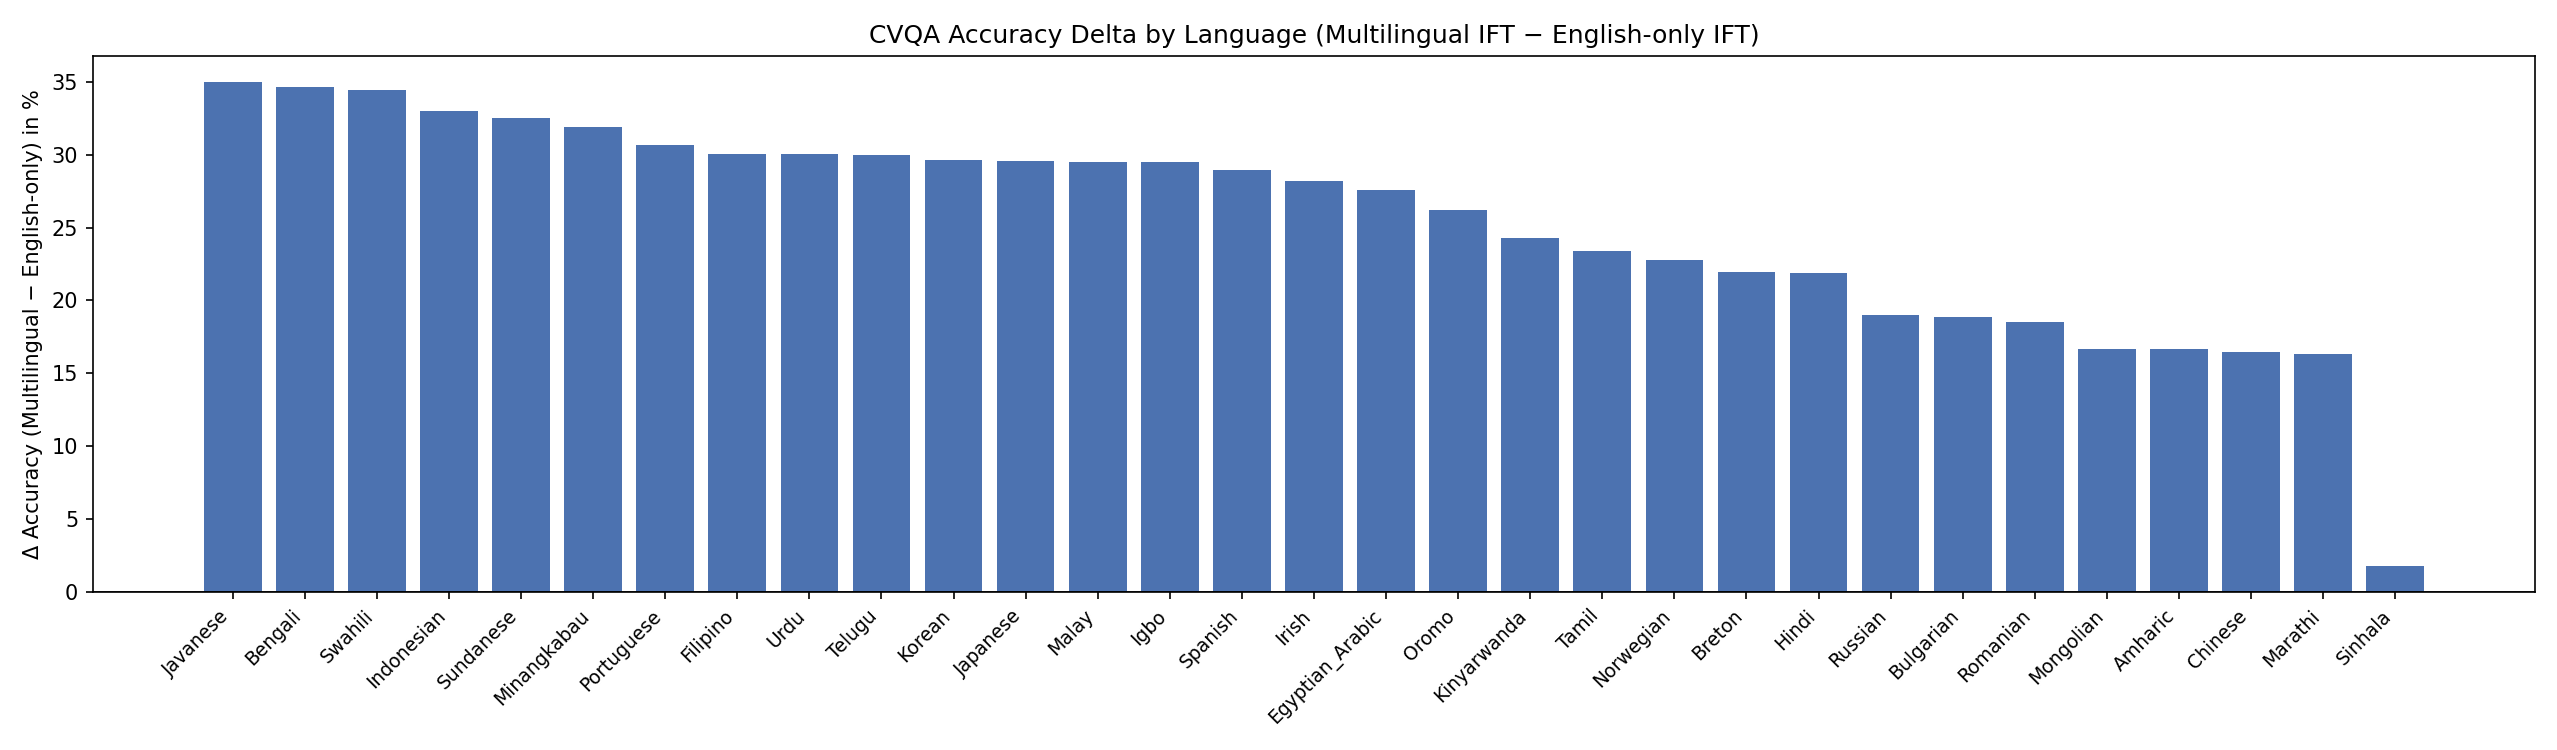
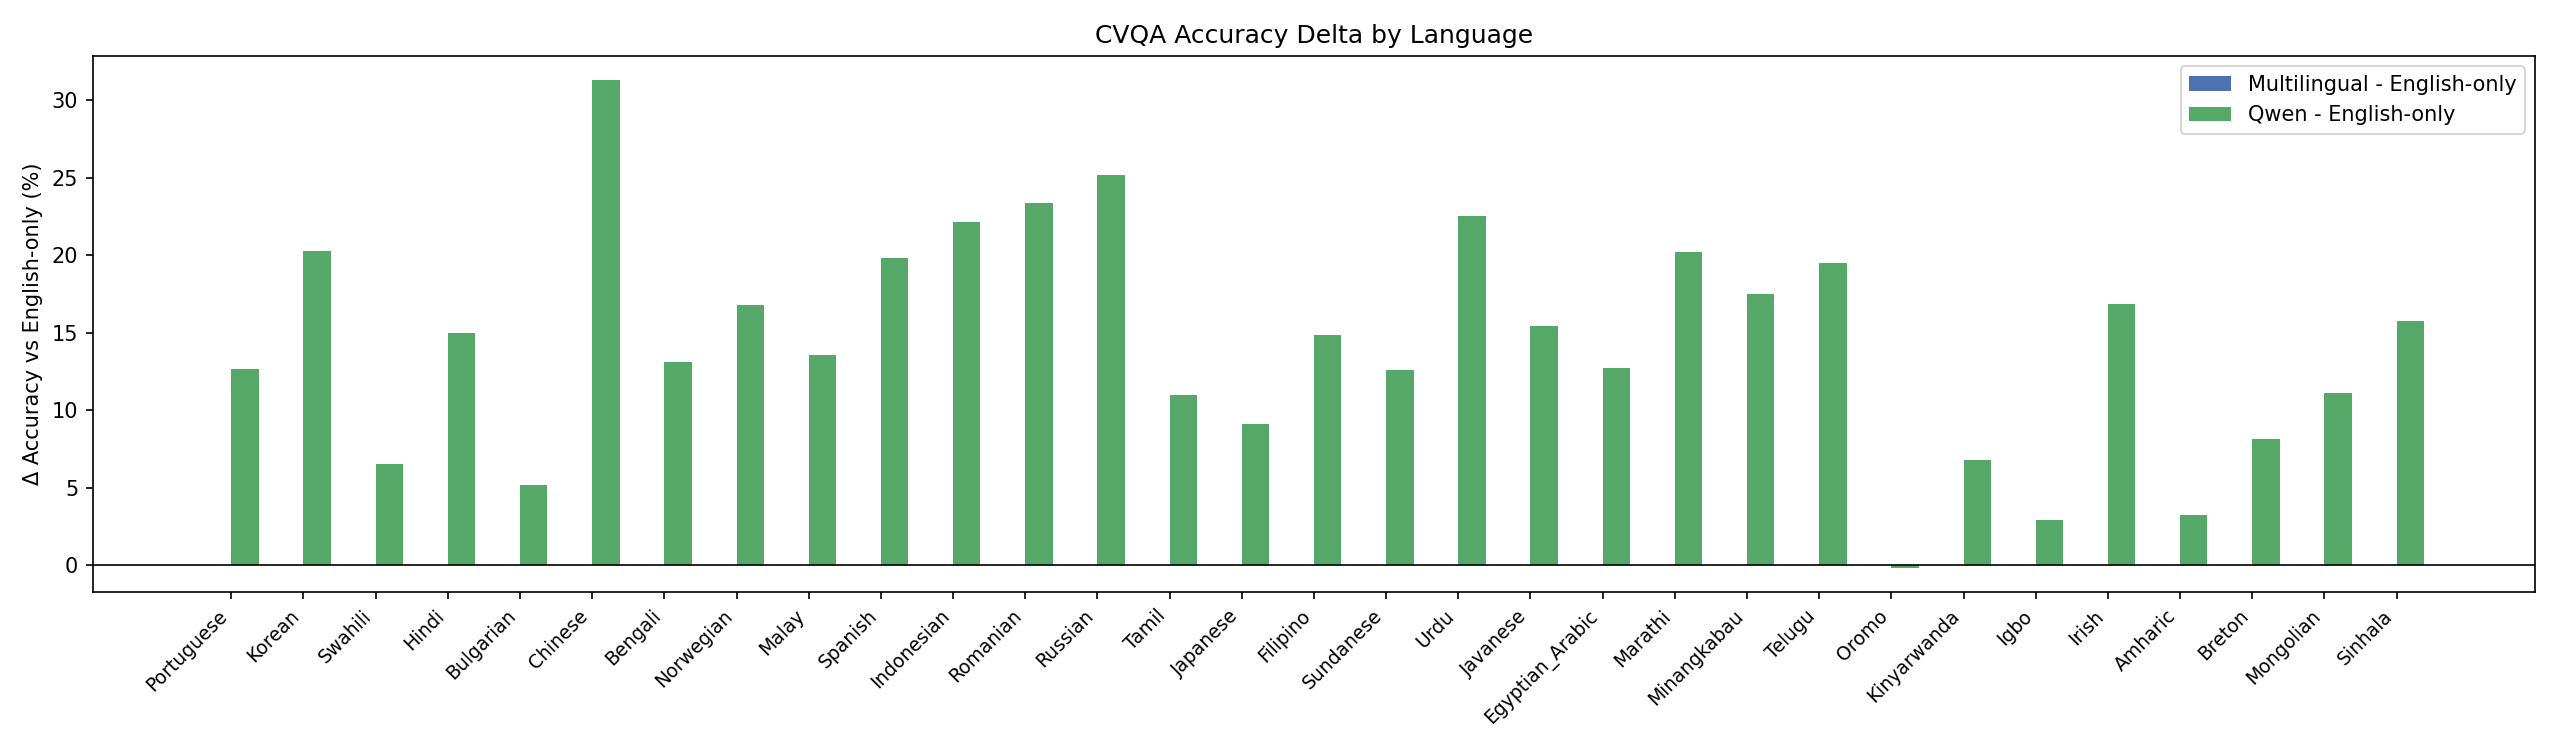
add qwen3-vl 4b eval

diff --git a/evaluation/ablation_cvqa.py b/evaluation/ablation_cvqa.py
@@ -10,6 +10,7 @@ Usage:
     python evaluation/ablation_cvqa.py \
         --multilingual <path/to/samples.jsonl> \
         --english-only <path/to/samples.jsonl> \
+        [--qwen <path/to/samples.jsonl>] \
         [--output-dir evaluation/ablation_figures]
         [--min-samples 10]
 
@@ -52,12 +53,14 @@ def per_language_accuracy(scores: dict[str, list[float]]) -> dict[str, float]:
 def print_table(
     multilingual: dict[str, float],
     english: dict[str, float],
+    qwen: dict[str, float] | None,
     min_samples: int,
     ml_counts: dict[str, int],
     en_counts: dict[str, int],
-) -> list[tuple[str, float, float, float]]:
+    qwen_counts: dict[str, int] | None,
+) -> list[tuple]:
     languages = sorted(
-        set(multilingual) | set(english),
+        set(multilingual) | set(english) | (set(qwen) if qwen else set()),
         key=lambda l: multilingual.get(l, 0),
         reverse=True,
     )
@@ -68,32 +71,62 @@ def print_table(
         en = english.get(lang)
         ml_n = ml_counts.get(lang, 0)
         en_n = en_counts.get(lang, 0)
+        qwen_n = qwen_counts.get(lang, 0) if qwen_counts else 0
         if ml_n < min_samples or en_n < min_samples:
             continue
         if ml is None or en is None:
             continue
-        delta = ml - en
-        rows.append((lang, ml, en, delta))
+        if qwen:
+            q = qwen.get(lang)
+            if q is None or qwen_n < min_samples:
+                continue
+            rows.append((lang, ml, en, q, ml - en, q - en))
+        else:
+            rows.append((lang, ml, en, ml - en))
 
     col = 24
-    print(f"\n{'Language':<{col}}  {'Multilingual':>14}  {'English-only':>14}  {'Delta (ML-EN)':>14}  {'n (ML/EN)':>12}")
-    print("-" * (col + 60))
-    for lang, ml, en, delta in rows:
-        sign = "+" if delta >= 0 else ""
-        ml_n = ml_counts[lang]
-        en_n = en_counts[lang]
-        print(f"{lang:<{col}}  {ml*100:>13.1f}%  {en*100:>13.1f}%  {sign}{delta*100:>12.1f}%  {ml_n:>5}/{en_n:<5}")
+    if qwen:
+        print(
+            f"\n{'Language':<{col}}  {'Multilingual':>14}  {'English-only':>14}  {'Qwen3-VL-4B':>14}  "
+            f"{'Δ(ML-EN)':>10}  {'Δ(Qwen-EN)':>12}  {'n (ML/EN/QW)':>14}"
+        )
+        print("-" * (col + 92))
+        for lang, ml, en, q, delta_ml_en, delta_q_en in rows:
+            ml_n = ml_counts[lang]
+            en_n = en_counts[lang]
+            q_n = qwen_counts[lang]
+            print(
+                f"{lang:<{col}}  {ml*100:>13.1f}%  {en*100:>13.1f}%  {q*100:>13.1f}%  "
+                f"{delta_ml_en*100:>+9.1f}%  {delta_q_en*100:>+11.1f}%  {ml_n:>4}/{en_n:<4}/{q_n:<4}"
+            )
+    else:
+        print(f"\n{'Language':<{col}}  {'Multilingual':>14}  {'English-only':>14}  {'Delta (ML-EN)':>14}  {'n (ML/EN)':>12}")
+        print("-" * (col + 60))
+        for lang, ml, en, delta in rows:
+            sign = "+" if delta >= 0 else ""
+            ml_n = ml_counts[lang]
+            en_n = en_counts[lang]
+            print(f"{lang:<{col}}  {ml*100:>13.1f}%  {en*100:>13.1f}%  {sign}{delta*100:>12.1f}%  {ml_n:>5}/{en_n:<5}")
 
     overall_ml = sum(multilingual[l] * ml_counts[l] for l in multilingual) / sum(ml_counts.values())
     overall_en = sum(english[l] * en_counts[l] for l in english) / sum(en_counts.values())
-    print("-" * (col + 60))
-    print(f"{'OVERALL':<{col}}  {overall_ml*100:>13.1f}%  {overall_en*100:>13.1f}%  {(overall_ml-overall_en)*100:>+13.1f}%")
+    if qwen and qwen_counts:
+        overall_q = sum(qwen[l] * qwen_counts[l] for l in qwen) / sum(qwen_counts.values())
+        print("-" * (col + 92))
+        print(
+            f"{'OVERALL':<{col}}  {overall_ml*100:>13.1f}%  {overall_en*100:>13.1f}%  {overall_q*100:>13.1f}%  "
+            f"{(overall_ml-overall_en)*100:>+9.1f}%  {(overall_q-overall_en)*100:>+11.1f}%"
+        )
+    else:
+        print("-" * (col + 60))
+        print(f"{'OVERALL':<{col}}  {overall_ml*100:>13.1f}%  {overall_en*100:>13.1f}%  {(overall_ml-overall_en)*100:>+13.1f}%")
     return rows
 
 
 def plot_side_by_side(
-    rows: list[tuple[str, float, float, float]],
+    rows: list[tuple],
     output_dir: Path,
+    include_qwen: bool,
 ) -> None:
     import matplotlib.pyplot as plt
     import numpy as np
@@ -102,16 +135,25 @@ def plot_side_by_side(
     langs = [r[0] for r in rows_sorted]
     ml_scores = [r[1] * 100 for r in rows_sorted]
     en_scores = [r[2] * 100 for r in rows_sorted]
+    q_scores = [r[3] * 100 for r in rows_sorted] if include_qwen else None
 
     x = np.arange(len(langs))
-    width = 0.4
+    width = 0.25 if include_qwen else 0.4
 
     fig, ax = plt.subplots(figsize=(max(12, len(langs) * 0.55), 6))
-    ax.bar(x - width / 2, ml_scores, width, label="Multilingual IFT", color="#4C72B0")
-    ax.bar(x + width / 2, en_scores, width, label="English-only IFT", color="#DD8452")
+    if include_qwen:
+        ax.bar(x - width, ml_scores, width, label="Multilingual IFT", color="#4C72B0")
+        ax.bar(x, en_scores, width, label="English-only IFT", color="#DD8452")
+        ax.bar(x + width, q_scores, width, label="Qwen3-VL-4B-Instruct", color="#55A868")
+    else:
+        ax.bar(x - width / 2, ml_scores, width, label="Multilingual IFT", color="#4C72B0")
+        ax.bar(x + width / 2, en_scores, width, label="English-only IFT", color="#DD8452")
 
     ax.set_ylabel("Accuracy (%)")
-    ax.set_title("CVQA Per-Language Accuracy: Multilingual vs. English-only IFT")
+    if include_qwen:
+        ax.set_title("CVQA Per-Language Accuracy: Multilingual vs. English-only vs. Qwen3-VL-4B")
+    else:
+        ax.set_title("CVQA Per-Language Accuracy: Multilingual vs. English-only IFT")
     ax.set_xticks(x)
     ax.set_xticklabels(langs, rotation=45, ha="right", fontsize=9)
     ax.legend()
@@ -127,24 +169,37 @@ def plot_side_by_side(
 
 
 def plot_delta(
-    rows: list[tuple[str, float, float, float]],
+    rows: list[tuple],
     output_dir: Path,
+    include_qwen: bool,
 ) -> None:
     import matplotlib.pyplot as plt
     import numpy as np
 
-    rows_sorted = sorted(rows, key=lambda r: r[3], reverse=True)
+    rows_sorted = sorted(rows, key=lambda r: r[3] if not include_qwen else r[4], reverse=True)
     langs = [r[0] for r in rows_sorted]
-    deltas = [r[3] * 100 for r in rows_sorted]
-
-    colors = ["#4C72B0" if d >= 0 else "#C44E52" for d in deltas]
-
     fig, ax = plt.subplots(figsize=(max(12, len(langs) * 0.55), 5))
-    ax.bar(np.arange(len(langs)), deltas, color=colors)
+    x = np.arange(len(langs))
+    if include_qwen:
+        deltas_ml = [r[4] * 100 for r in rows_sorted]
+        deltas_qw = [r[5] * 100 for r in rows_sorted]
+        width = 0.38
+        ax.bar(x - width / 2, deltas_ml, width, label="Multilingual - English-only", color="#4C72B0")
+        ax.bar(x + width / 2, deltas_qw, width, label="Qwen - English-only", color="#55A868")
+        ax.legend()
+    else:
+        deltas = [r[3] * 100 for r in rows_sorted]
+        colors = ["#4C72B0" if d >= 0 else "#C44E52" for d in deltas]
+        ax.bar(x, deltas, color=colors)
+
     ax.axhline(0, color="black", linewidth=0.8)
-    ax.set_ylabel("Δ Accuracy (Multilingual − English-only) in %")
-    ax.set_title("CVQA Accuracy Delta by Language (Multilingual IFT − English-only IFT)")
-    ax.set_xticks(np.arange(len(langs)))
+    if include_qwen:
+        ax.set_ylabel("Δ Accuracy vs English-only (%)")
+        ax.set_title("CVQA Accuracy Delta by Language")
+    else:
+        ax.set_ylabel("Δ Accuracy (Multilingual − English-only) in %")
+        ax.set_title("CVQA Accuracy Delta by Language (Multilingual IFT − English-only IFT)")
+    ax.set_xticks(x)
     ax.set_xticklabels(langs, rotation=45, ha="right", fontsize=9)
 
     fig.tight_layout()
@@ -158,6 +213,7 @@ def main():
     parser = argparse.ArgumentParser(description="CVQA ablation: multilingual vs. english-only IFT")
     parser.add_argument("--multilingual", required=True, help="Path to multilingual model samples JSONL")
     parser.add_argument("--english-only", required=True, help="Path to english-only model samples JSONL")
+    parser.add_argument("--qwen", default=None, help="Optional path to Qwen model samples JSONL")
     parser.add_argument("--output-dir", default="evaluation/ablation_figures")
     parser.add_argument("--min-samples", type=int, default=10, help="Min samples per language to include")
     args = parser.parse_args()
@@ -166,13 +222,19 @@ def main():
     ml_scores = load_samples(args.multilingual)
     print(f"Loading english-only samples from: {args.english_only}")
     en_scores = load_samples(args.english_only)
+    qwen_scores = None
+    if args.qwen:
+        print(f"Loading qwen samples from: {args.qwen}")
+        qwen_scores = load_samples(args.qwen)
 
     ml_acc = per_language_accuracy(ml_scores)
     en_acc = per_language_accuracy(en_scores)
+    qwen_acc = per_language_accuracy(qwen_scores) if qwen_scores else None
     ml_counts = {l: len(v) for l, v in ml_scores.items()}
     en_counts = {l: len(v) for l, v in en_scores.items()}
+    qwen_counts = {l: len(v) for l, v in qwen_scores.items()} if qwen_scores else None
 
-    rows = print_table(ml_acc, en_acc, args.min_samples, ml_counts, en_counts)
+    rows = print_table(ml_acc, en_acc, qwen_acc, args.min_samples, ml_counts, en_counts, qwen_counts)
 
     if not rows:
         print("No languages passed the min-samples threshold.")
@@ -182,8 +244,8 @@ def main():
     output_dir.mkdir(parents=True, exist_ok=True)
 
     try:
-        plot_side_by_side(rows, output_dir)
-        plot_delta(rows, output_dir)
+        plot_side_by_side(rows, output_dir, include_qwen=bool(qwen_scores))
+        plot_delta(rows, output_dir, include_qwen=bool(qwen_scores))
     except ImportError:
         print("\nmatplotlib not available — skipping figures. Install with: pip install matplotlib")
 
